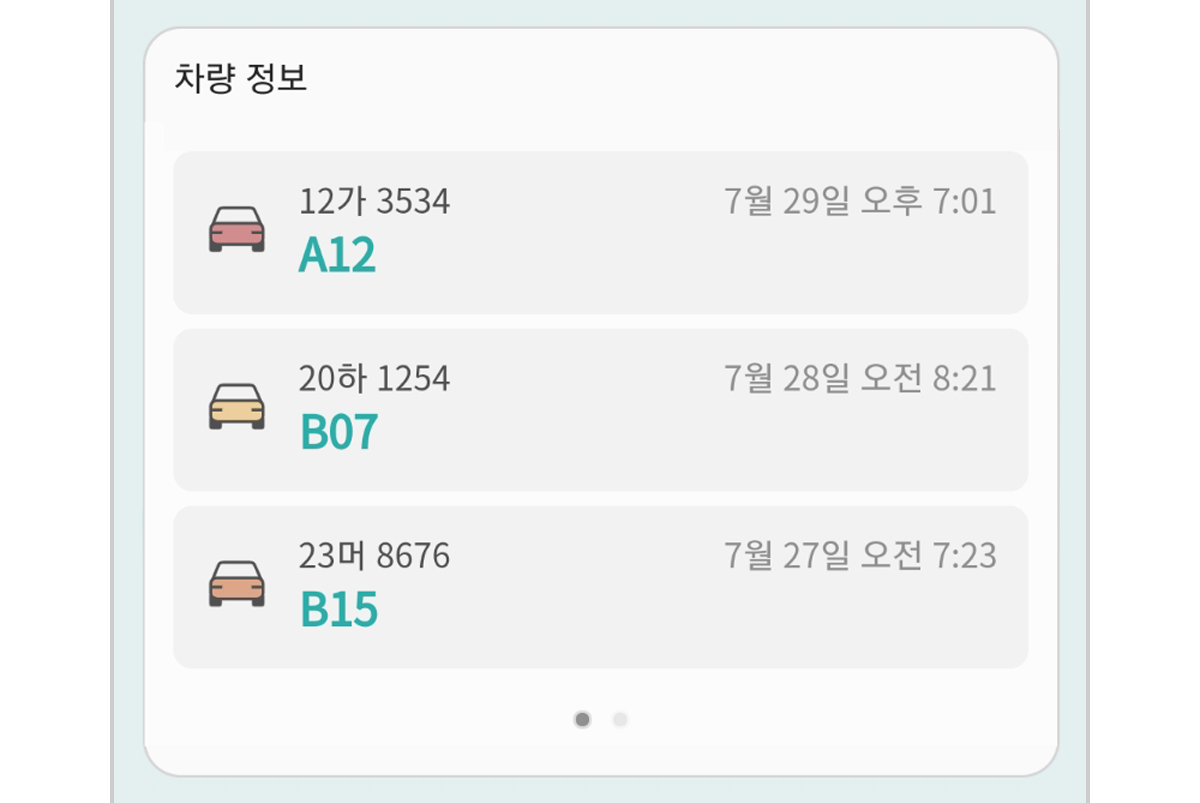
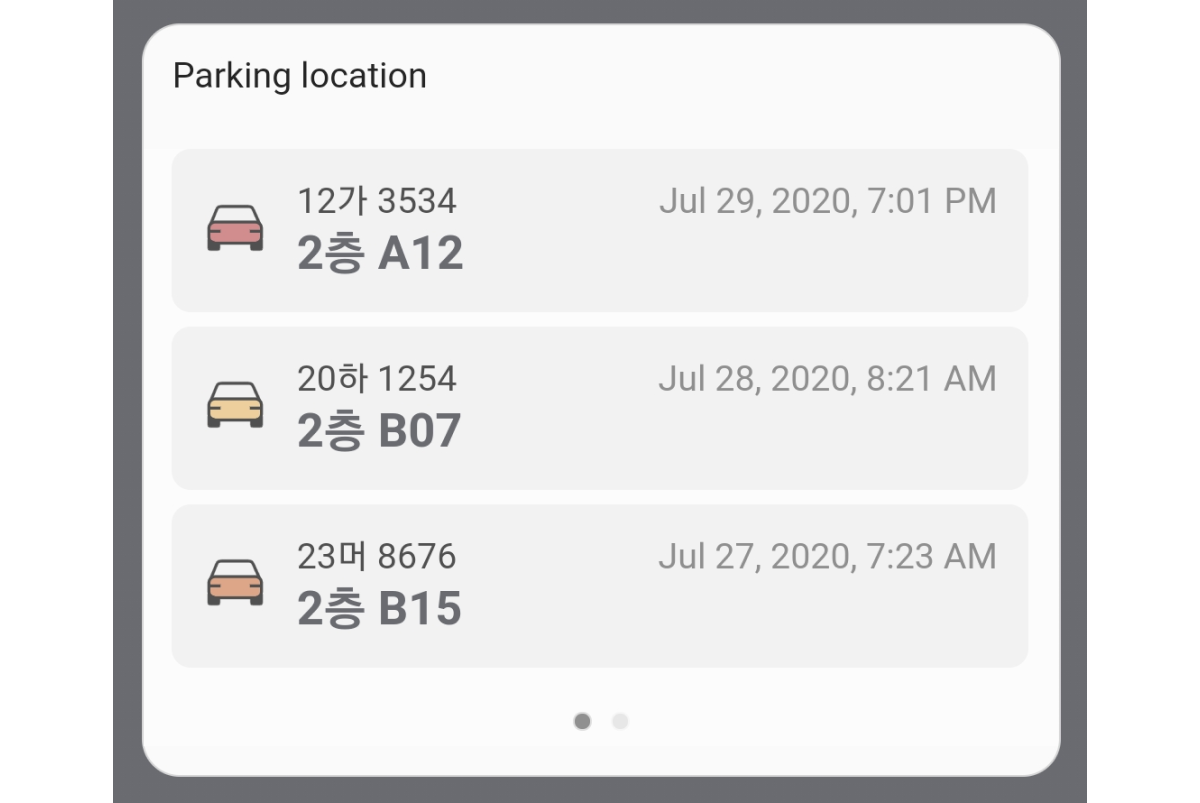
1.1.11

diff --git a/plugin/js/common/aptbrand.js b/plugin/js/common/aptbrand.js
@@ -130,6 +130,7 @@ var aptBrandInfoList = {
 var apt_info="";
 
 function setAptBrand(name) {
+    console.log("brandName: ", name);
     // set brand info
     let aptBrandInfo = aptBrandInfoList[name.toUpperCase()];
     if (!aptBrandInfo) {
@@ -137,6 +138,7 @@ function setAptBrand(name) {
     }
 
     // set css variables
+    /*
     let root = document.documentElement;
     root.style.setProperty("--brand-color", aptBrandInfo.brand_color);
     root.style.setProperty("--brand-color-8pro", aptBrandInfo.brand_color + "14");  // brandcolor + 8% alpha
@@ -144,7 +146,8 @@ function setAptBrand(name) {
     root.style.setProperty("--gradation-top-color", aptBrandInfo.gradation_top_color);
     root.style.setProperty("--gradation-middle-color", aptBrandInfo.gradation_middle_color);
     root.style.setProperty("--gradation-bottom-color", aptBrandInfo.gradation_bottom_color);
-
+    */
+    setBrandColorAnimation(aptBrandInfo.brand_color, 5000);
     // set apt_info text
     apt_info = aptBrandInfo.apt_info;
 
@@ -159,4 +162,74 @@ function setAptBrand(name) {
 
 }
 
-setAptBrand(apt_name);
+
+var setBrandColorAnimationId = 0;
+function setBrandColorAnimation(newColor, ms = 10000) {
+    if (setBrandColorAnimationId) {
+        clearInterval(setBrandColorAnimationId);
+        setBrandColorAnimationId = 0;
+    }
+    const interval = 50;
+    var step = 0;
+    var divider = Math.round(ms / interval);
+    var oldColor = getComputedStyle(document.documentElement).getPropertyValue("--brand-color");
+    var oldColorArr = oldColor.match(/\w\w/g).map(x => parseInt(x, 16));
+    var newColorArr = newColor.match(/\w\w/g).map(x => parseInt(x, 16));
+
+    setBrandColorAnimationId = setInterval(() => {
+        step++;
+        let tmpColor = newColor;
+        if (divider === step) {
+            clearInterval(setBrandColorAnimationId);
+            setBrandColorAnimationId = 0;
+        } else {
+            tmpColor = "#";
+            for(let i = 0 ; i < oldColorArr.length ; i++) {
+                let colorInt = oldColorArr[i] + Math.round(((newColorArr[i] - oldColorArr[i]) * step) / divider);
+                tmpColor += colorInt.toString(16).padStart(2, "0");
+            }
+        }
+        setBrandColor(tmpColor);
+    }, interval);
+}
+
+function toRGBA(hex) {
+    var h = hex.slice(1);
+
+    // Split to four channels
+    var c = h.match(/.{2}/g);
+    if(c.length != 4) {
+        console.error("Not in an appropriate RGBA form");
+        return '#FFFFFF';
+    }
+
+    // To decimals (for RGB)
+    var d = function(v) {
+        return parseInt(v, 16);
+    };
+
+    // To percentage (for alpha), to 3 decimals
+    var p = function(v) {
+        return parseFloat(parseInt((parseInt(v, 16)/255)*1000)/1000);
+    };
+
+    // Convert array into rgba values
+    var a, rgb = [];
+    a = p(c[3]);
+    $.each(c.slice(0,3), function(i,v) {
+        rgb.push(d(v));
+    });
+    rgb.push(a);
+
+    return "rgba(" + rgb + ")";
+}
+
+function setBrandColor(color) {
+    document.documentElement.style.setProperty("--brand-color", color);
+    document.documentElement.style.setProperty("--brand-color-8pro", toRGBA(color + "14"));     // 8% opacity of --brand-color
+    document.documentElement.style.setProperty("--brand-color-50pro", toRGBA(color + "80"));    // 50% opacity of --brand-color
+    document.documentElement.style.setProperty("--brand-color-80pro", toRGBA(color + "CC"));    // 80% opacity of --brand-color
+    document.documentElement.style.setProperty("--gradation-top-color", color);
+    document.documentElement.style.setProperty("--gradation-middle-color", color);
+    document.documentElement.style.setProperty("--gradation-bottom-color", color);
+}

diff --git a/plugin/service/parking/js/parking_init.js b/plugin/service/parking/js/parking_init.js
@@ -198,7 +198,7 @@ ParkingService.prototype = {
 		list:[
       {
         service_id: SERVICEID_PARKING_LOCATION,
-        imageUri: (lang === "ko") ? parkingImageUri + "help_info_img_location.png2" : parkingImageUri + "help_info_img_location_eng2.png",
+        imageUri: (lang === "ko") ? parkingImageUri + "help_info_img_location2.png" : parkingImageUri + "help_info_img_location2_eng.png",
         imageSize: { width:"100%", height:"auto" },
         bSubTitle : false,
         subTitle: $.lang[lang].HELP_PARK_ONE_PASS_KEY,

diff --git a/plugin/js/common/settings.js b/plugin/js/common/settings.js
@@ -12,7 +12,7 @@ This software is the confidential and proprietary information of SAMSUNG ELECTRO
 
 /** plugin version 
  * @constant {string} */
-const VERSION = "1.1.9";
+const VERSION = "1.1.11";
 /** release date
  * @constant {string} */
 const RELEASE_DATE = "2021.08.26";
